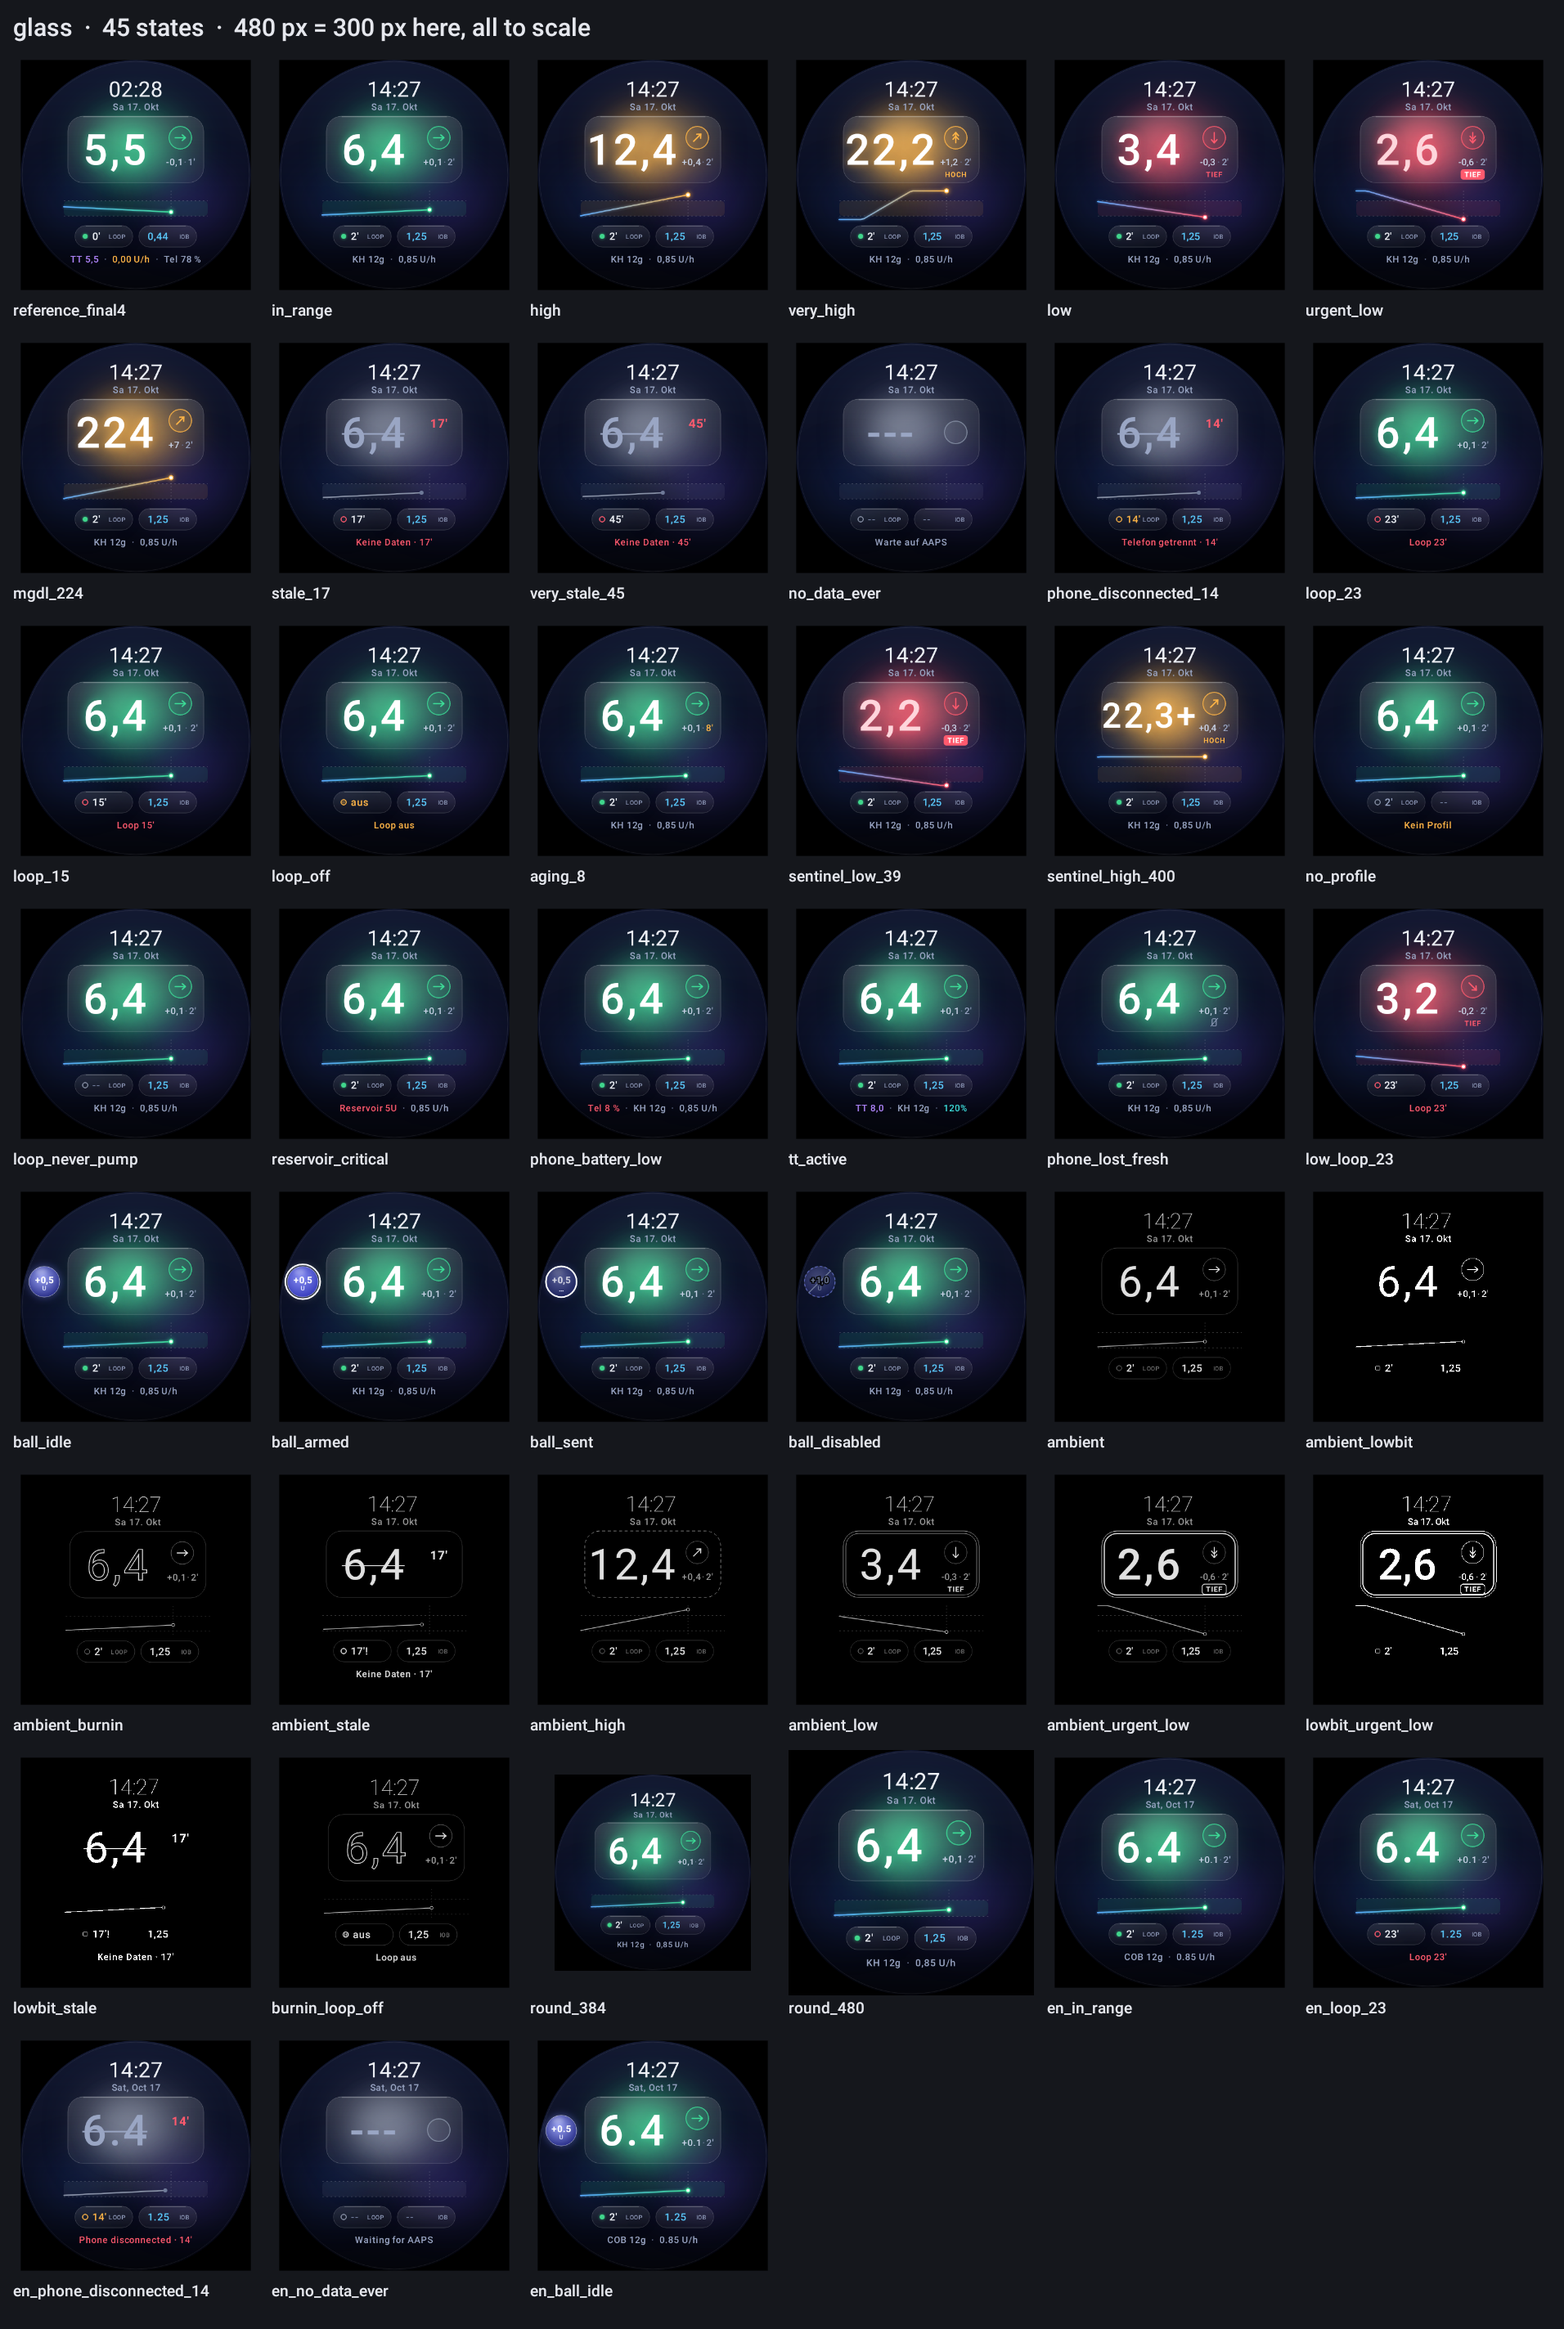
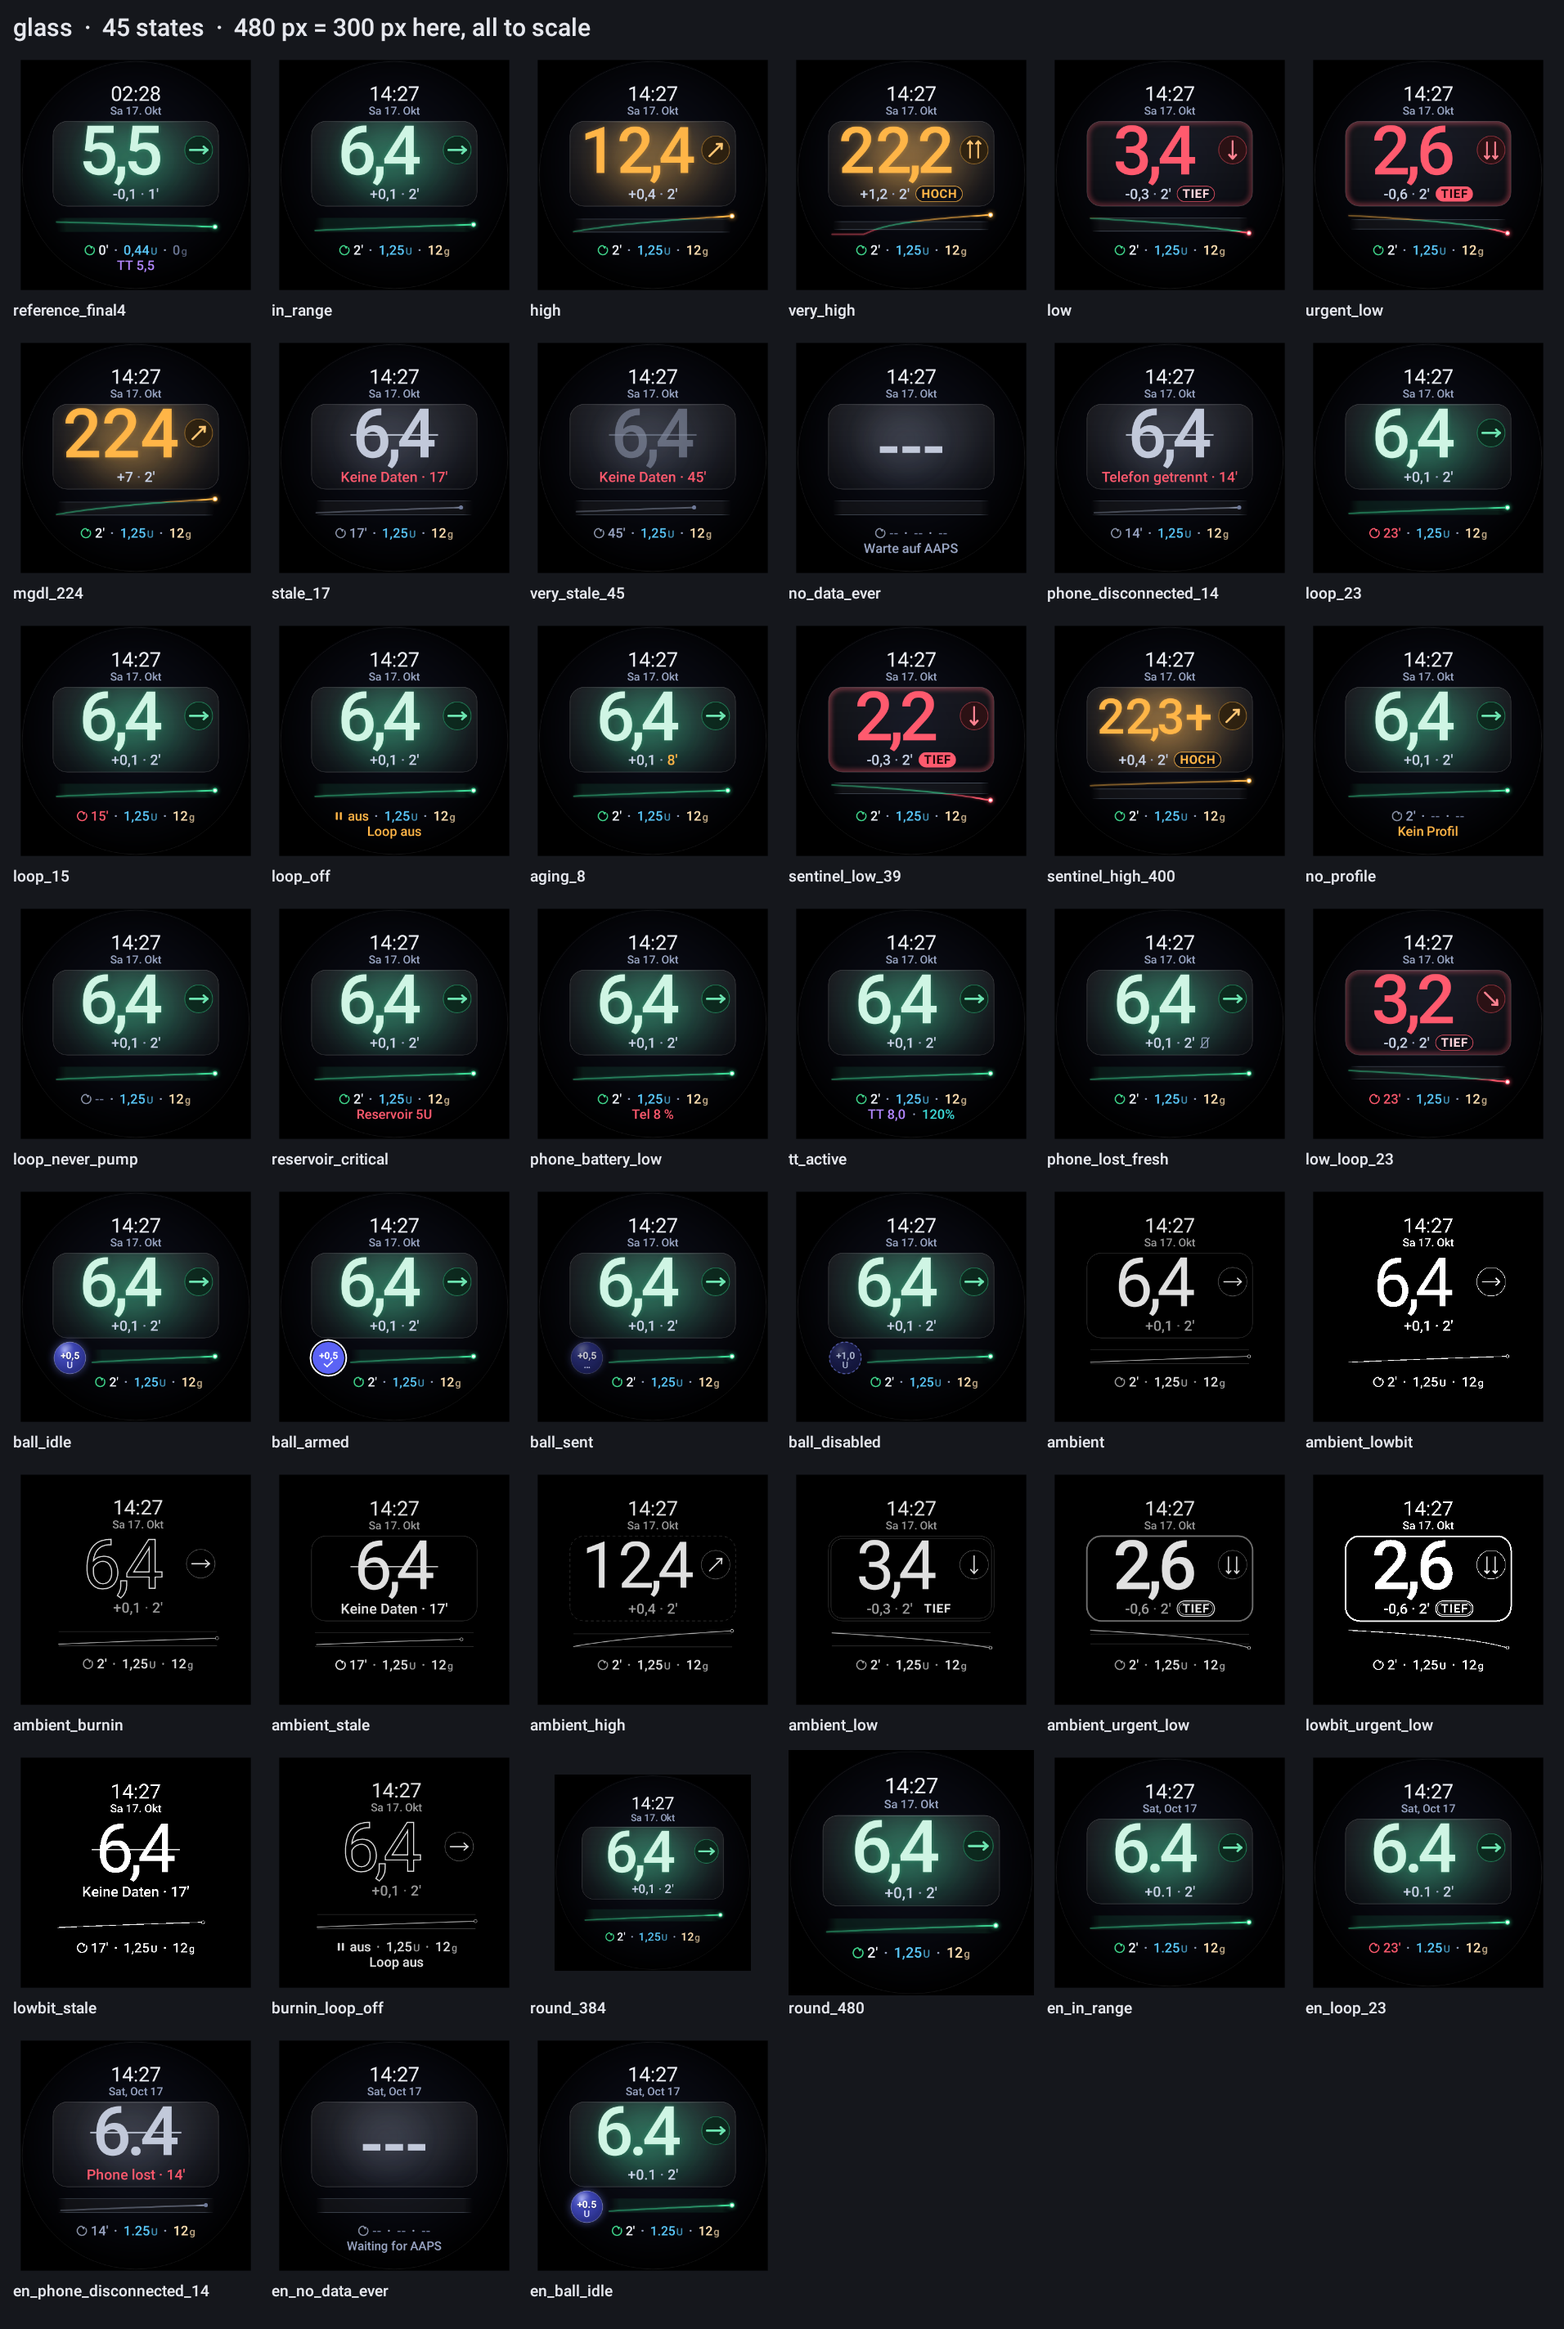
Docs: renders after the Glass/Orbit UX polish rounds, updated changelog

diff --git a/_docs/watchfaces/CHANGELOG.md b/_docs/watchfaces/CHANGELOG.md
@@ -11,9 +11,16 @@ No changes to dosing math, limits or constraints. Phone and watch APKs must be i
 - Shared family design system (`common/FaceState`): BG age classes, range incl. urgent low / very high,
   loop health from the real loop run time, phone link, warning order W1..W10, TIEF/HOCH captions,
   placeholders, German unit spacing, burn-in shift. Ambient and low-bit variants for all three faces.
-- Four UX panel rounds (design + usability) on Glass and Orbit: larger hero digits, readable labels/pills
+- UX panel rounds (design + usability) on Glass and Orbit: larger hero digits, readable labels/pills
   (22 px physical floor), red low digits with readable contrast, TIEF/HOCH placement clear of the delta,
   stale and "---" handling, time/date below the system status icon, quieter ambient. Halo kept at size M.
+- Glass/Orbit UX rounds 1-6 (after the polish rework): Orbit satellites quieter (dim labels, 24 px values), alarm
+  rings replaced by value tint + status dot (red keeps a thin ring), smaller chart with a 55-240 mg/dL minimum scale,
+  hero weight 600; Glass trend chip with a dark base and double arrows as two parallel arrows, larger bolus ball
+  clear of the chart, very-stale digits dimmed, no static card outline under burn-in protection (except lows),
+  sparkline history dimmed with the last 15 min at full strength.
+- Orbit "no profile" shows the dim "--" skeleton (IOB/KH/BASAL "--", grey dashed LOOP) like Halo and Glass,
+  instead of hiding the satellites next to a green loop age.
 - German strings moved to `values-de` so de-AT and de-CH get German too.
 - LoopState tile is rebuilt whenever the loop-state list differs.
 
@@ -45,3 +52,9 @@ No changes to dosing math, limits or constraints. Phone and watch APKs must be i
 - Unit tests for all face logic, the shared guard, prefs migration, confirm binding, sync pointers and the
   notification throttle; an offline Robolectric render harness for the faces (tests only).
 - `_docs/watchfaces`: design record, state catalogue, per-face specs, state matrices and gallery.
+
+## Build
+- Tip `3405233382` (integration/kusi-watchfaces-r2). Release APKs signed with cert SHA-256
+  6ff302f5638b25502a0434554b64099ff735380d914a279857dfd2bbcd4b166b (apksigner 36.0.0).
+- app-full-release.apk sha256 4484d059e8968dca89fb2796e5c34329bd4827d86cf2865d2f586915d7af509c
+- wear-full-release.apk sha256 3871db09f8ab5aa2e9c42f991c604e8660409f172667bc59808b56ed9e7fc667
